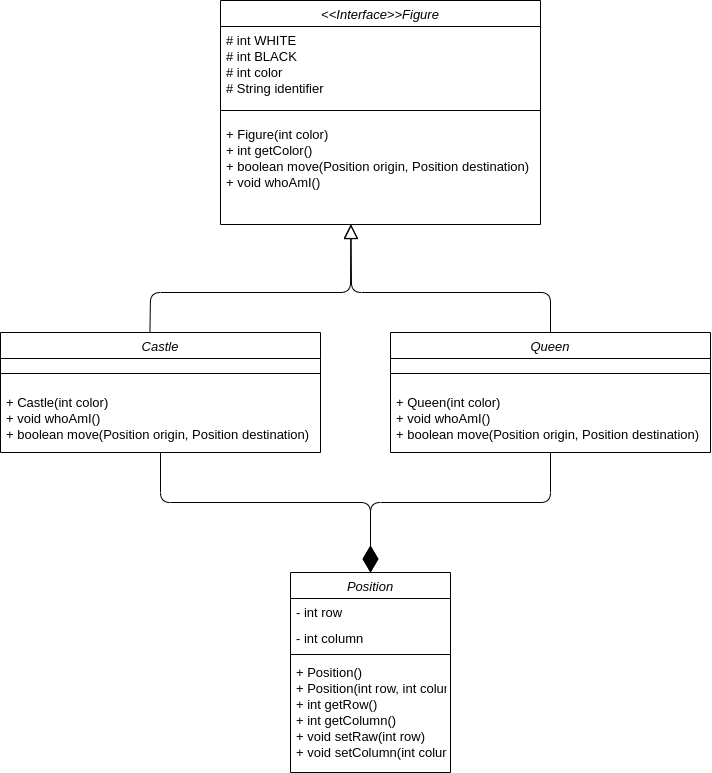
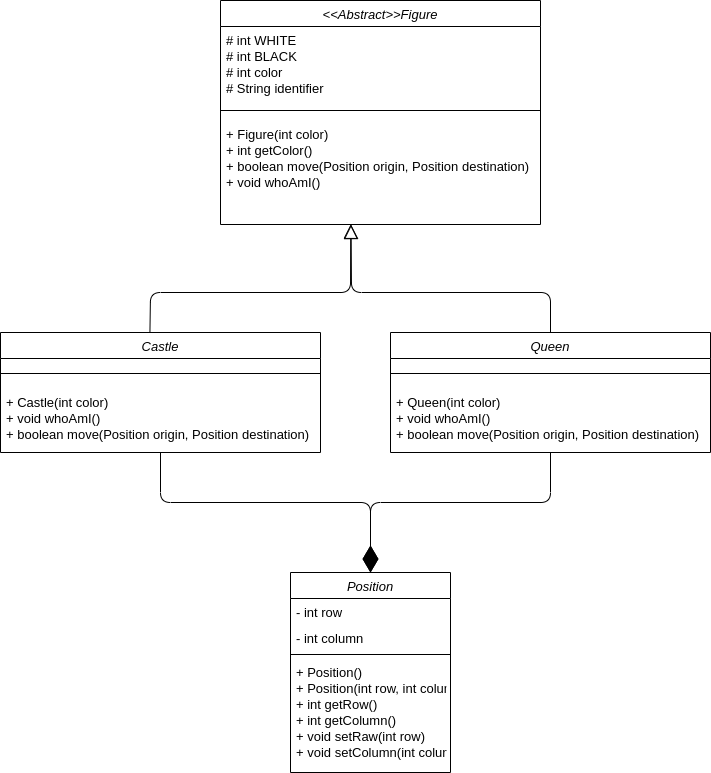
Update class diagram

diff --git a/src/main/java/samuel/practices/third/README.md b/src/main/java/samuel/practices/third/README.md
@@ -1,4 +1,4 @@
-# io2.1. Inheritance and references to the base class
+# 2.1. Inheritance and references to the base class
 
 ## Exercise 1
 
@@ -20,16 +20,39 @@
 4. What should we do to know exactly to which class belongs every object pointed by a reference to the base class?
     - .
 
-## Exercise 2
+## 2.2. Exercise to practice with Figures
 
-#### Class Diagram 
+### Class Diagram 
 ![](classDiagram2.png)
 
+ #### Rectangle
+  1. Show the difference between a class and an object.
+    - Object is instance of class
+  1. Which steps are involved in the instantiation's process of an object ?
+    - Declare variable name with an object type
+    - Use **new** for create the object
+  1. How is an object instantiated in Java ?
+    - instanceof
+  
+  #### Square
+  1. What is inheritance?
+    - .
+  1. How do you express in Java that one class inherits from another?
+    - .
+  1. Which methods of the superclass are visible from the subclasses?
+    - .
+  1. What is the meaning of method overriding?
+    - .
+  1. Remember that, opposite to the rest of the methods of a class, subclasses don't automatically inherit constructors from the superclass, but they can be invoked by the use of super() keyword.
+    - .
 
-1. Answer the following questions:
-  - Show the difference between a class and an object.
-    Object is instance of class
-  - Which steps are involved in the instantiation's process of an object ?
-    1. Declare variable name with an object type
-    1. Use **new** for create the object
-  - How is an object instantiated in Java ?
+### Reference to interfaces.
+
+  1. Which type are both instantiated objects (in options 1 and 2)?
+    - .
+  1. Which type is the variable that references them?
+    - .
+  1. Which methods from superclass are visible from the subclass?
+    - .
+  1. Can you use the same variable as a reference for different types of figures? Why?
+    - .
